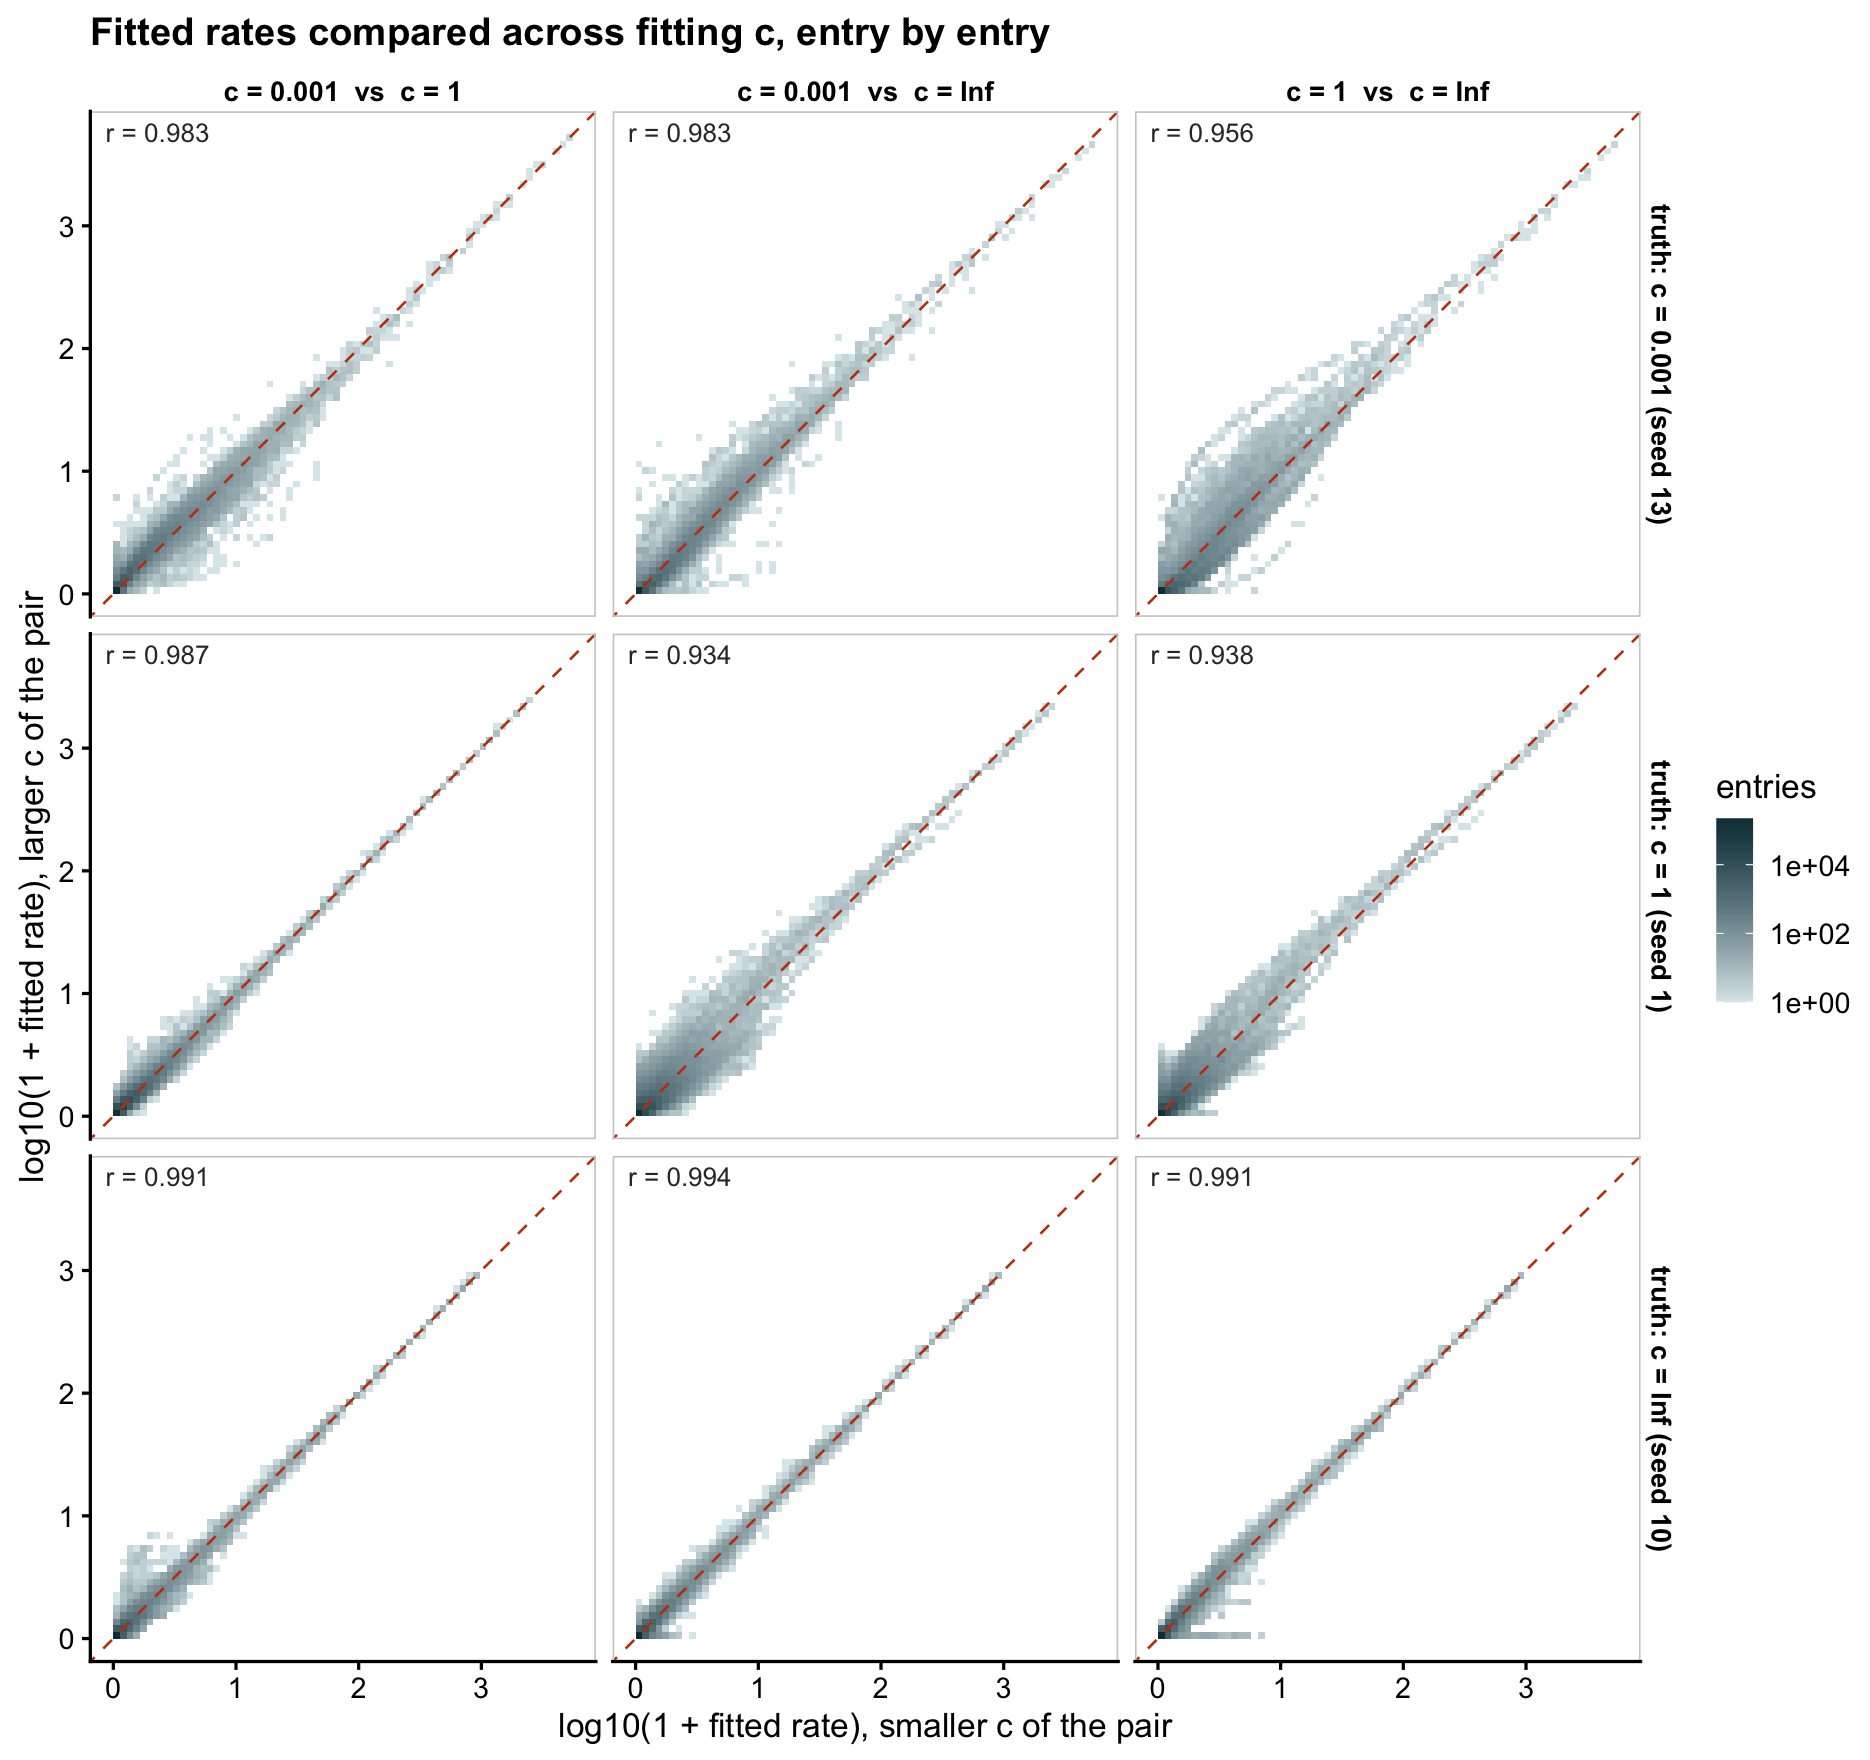
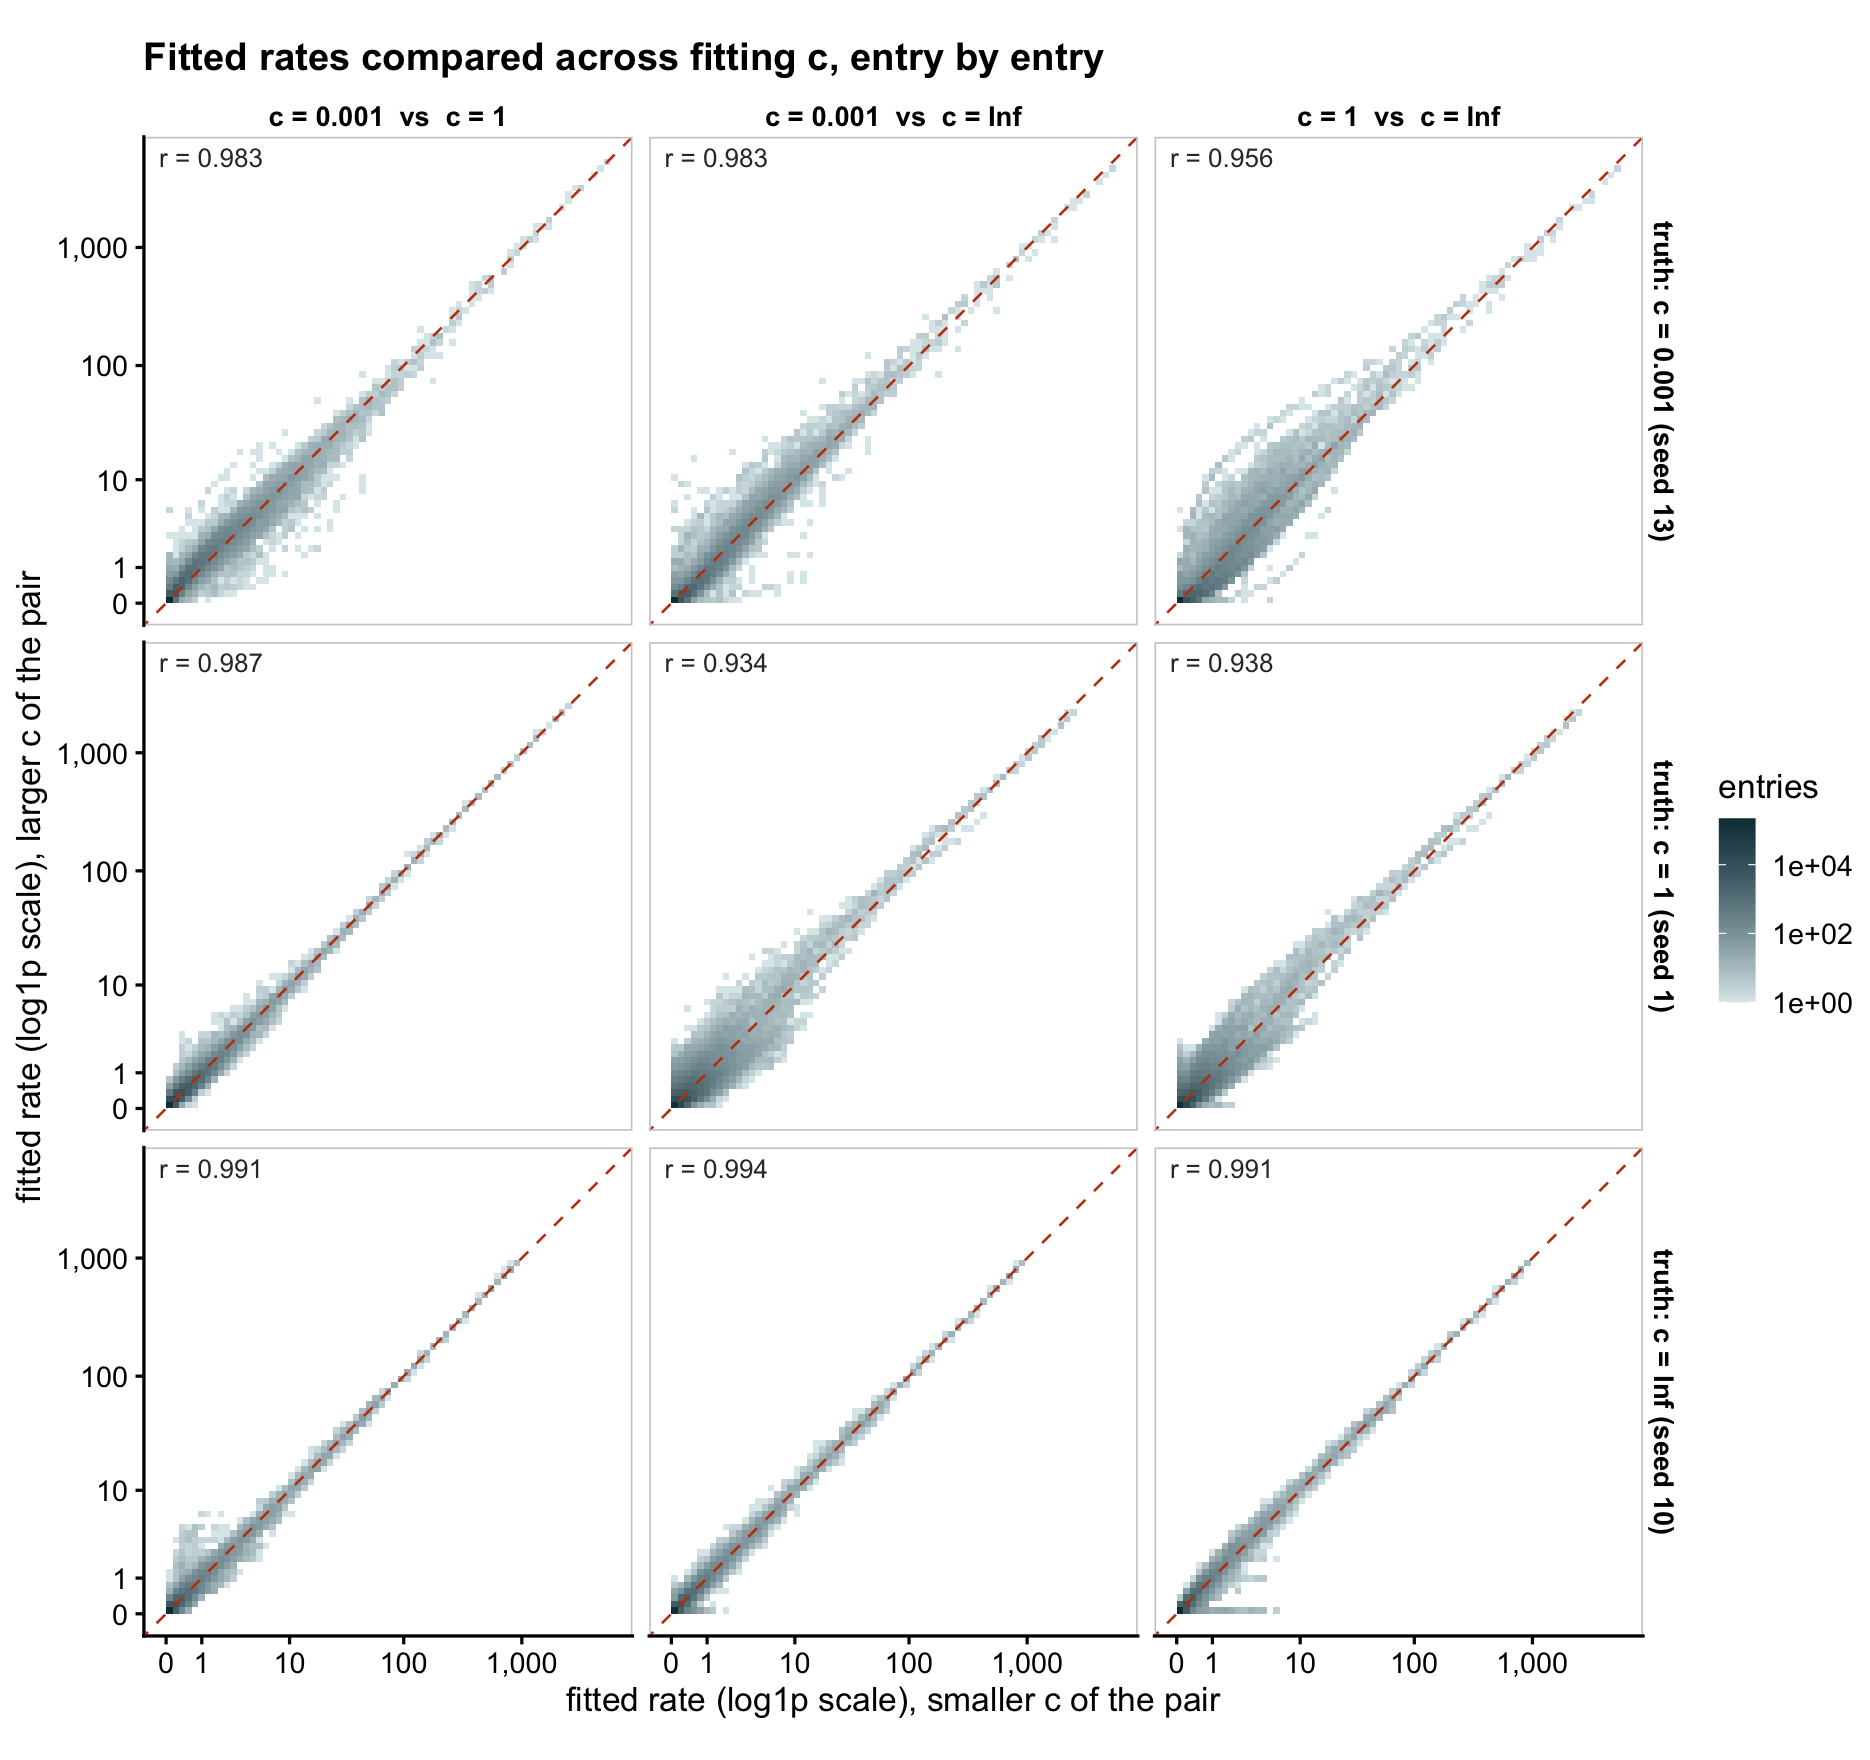
Build site.

diff --git a/docs/sim_design.html b/docs/sim_design.html
@@ -534,15 +534,15 @@ project makes it easier to run your code on other machines.</p>
 <div class="panel panel-default">
 <div class="panel-heading">
 <p class="panel-title">
-<a data-toggle="collapse" data-parent="#workflowr-checks" href="#strongRepositoryversionstrongahrefhttpsgithubcomeweinelog1pexperimentstree785f27230aabbb206991a9fffb8b84a1acf454c9targetblank785f272a">
+<a data-toggle="collapse" data-parent="#workflowr-checks" href="#strongRepositoryversionstrongahrefhttpsgithubcomeweinelog1pexperimentstree0efdb1d35f0418336fd1bffb3d71d6476b93d8e8targetblank0efdb1da">
 <span class="glyphicon glyphicon-ok text-success"
 aria-hidden="true"></span> <strong>Repository version:</strong>
-<a href="https://github.com/eweine/log1p_experiments/tree/785f27230aabbb206991a9fffb8b84a1acf454c9" target="_blank">785f272</a>
+<a href="https://github.com/eweine/log1p_experiments/tree/0efdb1d35f0418336fd1bffb3d71d6476b93d8e8" target="_blank">0efdb1d</a>
 </a>
 </p>
 </div>
 <div
[2 lines of base64/hex data omitted]
 class="panel-collapse collapse">
 <div class="panel-body">
 <p>
@@ -552,7 +552,7 @@ reproducibility.
 </p>
 <p>
 The results in this page were generated with repository version
-<a href="https://github.com/eweine/log1p_experiments/tree/785f27230aabbb206991a9fffb8b84a1acf454c9" target="_blank">785f272</a>.
+<a href="https://github.com/eweine/log1p_experiments/tree/0efdb1d35f0418336fd1bffb3d71d6476b93d8e8" target="_blank">0efdb1d</a>.
 See the <em>Past versions</em> tab to see a history of the changes made
 to the R Markdown and HTML files.
 </p>
@@ -617,6 +617,40 @@ Message
 </tr>
 </thead>
 <tbody>
+<tr>
+<td>
+Rmd
+</td>
+<td>
+<a href="https://github.com/eweine/log1p_experiments/blob/0efdb1d35f0418336fd1bffb3d71d6476b93d8e8/analysis/sim_design.Rmd" target="_blank">0efdb1d</a>
+</td>
+<td>
+Eric Weine
+</td>
+<td>
+2026-08-21
+</td>
+<td>
+rates-pairs figure: raw rates on log1p-scaled axes (labels in rate
+</td>
+</tr>
+<tr>
+<td>
+html
+</td>
+<td>
+<a href="https://rawcdn.githack.com/eweine/log1p_experiments/849ff29b84ec682c5e6fd0ad8e0ffb8129c8fabc/docs/sim_design.html" target="_blank">849ff29</a>
+</td>
+<td>
+Eric Weine
+</td>
+<td>
+2026-08-21
+</td>
+<td>
+Build site.
+</td>
+</tr>
 <tr>
 <td>
 Rmd
@@ -2635,10 +2669,11 @@ at <span class="math inline">\(c_{\textrm{true}} = \infty\)</span>), we
 compare the exact fits at <span class="math inline">\(c_{\textrm{fit}}
 \in \{10^{-3}, 1, \infty\}\)</span> pairwise: each panel scatters all
 <span class="math inline">\(250{,}000\)</span> fitted rates of one fit
-against another, on the <span class="math inline">\(\log_{10}(1 +
-\lambda)\)</span> scale. Rows are the generative regimes, columns the
+against another — raw rates, with the axes on the log1p scale so the
+labels read in rate units. Rows are the generative regimes, columns the
 three pairs; the diagonal is equality, and the annotation gives the
-Pearson correlation on the plotted scale.</p>
+Pearson correlation of <span class="math inline">\(\log(1 +
+\lambda)\)</span>.</p>
 <pre class="r"><code>fit_dir &lt;- file.path(exp_dir, &quot;approx_sim_fits&quot;)
 need &lt;- expand.grid(seed = c(13, 1, 10), cfit = c(&quot;0.001&quot;, &quot;1&quot;, &quot;Inf&quot;))
 need$ctrue &lt;- rep(c(&quot;0.001&quot;, &quot;1&quot;, &quot;Inf&quot;), 3)
@@ -2663,15 +2698,15 @@ if (!all(file.exists(file.path(fit_dir, need$file)))) {
                   scen$seed[i], scen$ctrue[i], pr[1])
     fb &lt;- sprintf(&quot;approxsim_seed%02d_ctrue%s_cfit%s_exact.rds&quot;,
                   scen$seed[i], scen$ctrue[i], pr[2])
-    a &lt;- log10(1 + as.vector(rates_of(fa, as.numeric(pr[1]))))
-    b &lt;- log10(1 + as.vector(rates_of(fb, as.numeric(pr[2]))))
+    a &lt;- as.vector(rates_of(fa, as.numeric(pr[1])))
+    b &lt;- as.vector(rates_of(fb, as.numeric(pr[2])))
     row_lab &lt;- paste0(&quot;truth: c = &quot;, scen$ctrue[i], &quot; (seed &quot;, scen$seed[i], &quot;)&quot;)
     col_lab &lt;- paste0(&quot;c = &quot;, pr[1], &quot;  vs  c = &quot;, pr[2])
     pan[[length(pan) + 1]] &lt;- data.frame(x = a, y = b,
                                          row = row_lab, col = col_lab)
     ann[[length(ann) + 1]] &lt;- data.frame(
       row = row_lab, col = col_lab,
-      lab = sprintf(&quot;r = %.3f&quot;, cor(a, b)))
+      lab = sprintf(&quot;r = %.3f&quot;, cor(log1p(a), log1p(b))))
   }
   pan &lt;- do.call(rbind, pan); ann &lt;- do.call(rbind, ann)
   rl &lt;- paste0(&quot;truth: c = &quot;, scen$ctrue, &quot; (seed &quot;, scen$seed, &quot;)&quot;)
@@ -2684,16 +2719,57 @@ if (!all(file.exists(file.path(fit_dir, need$file)))) {
               hjust = -0.15, vjust = 1.6, size = 3, colour = &quot;grey20&quot;) +
     scale_fill_gradient(low = &quot;#DCE8EB&quot;, high = &quot;#0E3A44&quot;,
                         trans = &quot;log10&quot;, name = &quot;entries&quot;) +
+    scale_x_continuous(trans = &quot;log1p&quot;, breaks = c(0, 1, 10, 100, 1000),
+                       labels = scales::comma) +
+    scale_y_continuous(trans = &quot;log1p&quot;, breaks = c(0, 1, 10, 100, 1000),
+                       labels = scales::comma) +
     facet_grid(row ~ col) +
     coord_equal() +
-    labs(x = &quot;log10(1 + fitted rate), smaller c of the pair&quot;,
-         y = &quot;log10(1 + fitted rate), larger c of the pair&quot;,
+    labs(x = &quot;fitted rate (log1p scale), smaller c of the pair&quot;,
+         y = &quot;fitted rate (log1p scale), larger c of the pair&quot;,
          title = &quot;Fitted rates compared across fitting c, entry by entry&quot;) +
     theme(strip.background = element_blank(),
           strip.text = element_text(face = &quot;bold&quot;, size = 9),
           panel.border = element_rect(colour = &quot;grey80&quot;, fill = NA)))
 }</code></pre>
 <p><img src="figure/sim_design.Rmd/rates-pairs-fig-1.png" alt="" width="935" style="display: block; margin: auto;" /></p>
+<p>
+<button type="button" class="btn btn-default btn-xs btn-workflowr btn-workflowr-fig" data-toggle="collapse" data-target="#fig-rates-pairs-fig-1">
+Past versions of rates-pairs-fig-1.png
+</button>
+</p>
+<div id="fig-rates-pairs-fig-1" class="collapse">
+<div class="table-responsive">
+<table class="table table-condensed table-hover">
+<thead>
+<tr>
+<th>
+Version
+</th>
+<th>
+Author
+</th>
+<th>
+Date
+</th>
+</tr>
+</thead>
+<tbody>
+<tr>
+<td>
+<a href="https://github.com/eweine/log1p_experiments/blob/849ff29b84ec682c5e6fd0ad8e0ffb8129c8fabc/docs/figure/sim_design.Rmd/rates-pairs-fig-1.png" target="_blank">849ff29</a>
+</td>
+<td>
+Eric Weine
+</td>
+<td>
+2026-08-21
+</td>
+</tr>
+</tbody>
+</table>
+</div>
+</div>
 <p>The high-rate tail is pinned to the diagonal in every panel — above
 <span class="math inline">\(\lambda \approx 30\)</span> the fits at
 different <span class="math inline">\(c\)</span> essentially agree entry
